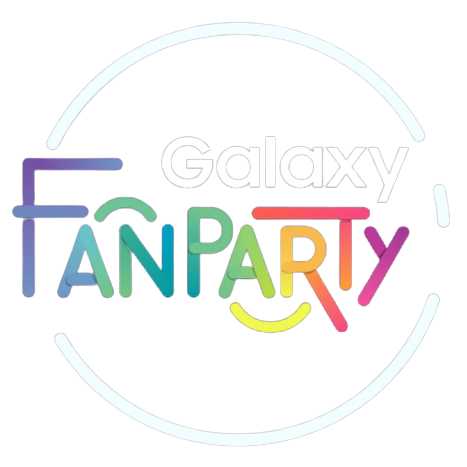
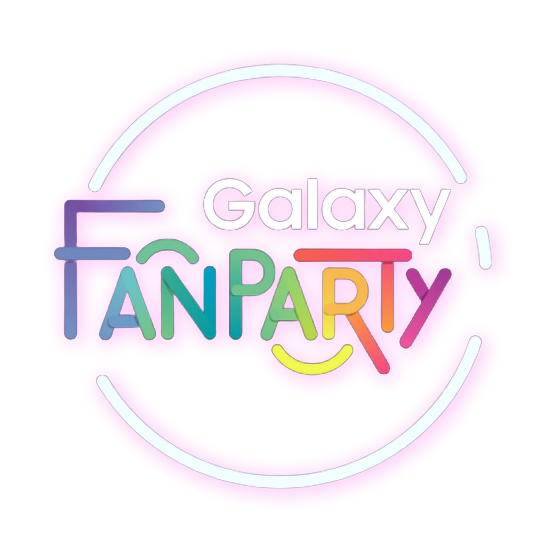
애니메이션 추가 후 1차 배포

diff --git a/src/components/UseHooks.js b/src/components/UseHooks.js
@@ -1,5 +1,5 @@
 import React from "react";
-import styled from "styled-components";
+import styled, { keyframes } from "styled-components";
 import Highlight from "react-highlight.js";
 import superhook from "../assets/superhook.mov";
 
@@ -9,6 +9,7 @@ function UseHooks() {
       <h1>토이 프로젝트 - Infinite Loading hook, Superhooks! </h1>
       <CoinContainer>
         <CodeBox>
+          <Attention>Scroll Me!</Attention>
           <HighlightCode language="javascript">
             {
               'import React, { useEffect, useState } from "react";\nimport { getMovies } from "./api";\nimport uniqBy from "lodash.uniqby";\nimport ReactDOM from "react-dom";\n\nimport "./styles.css";\n\nfunction InfiniteList() {\n\tconst [movies, setMovies] = useState([]);\n\tconst [loading, setLoading] = useState(true);\n\tconst [page, setPage] = useState(1);\n\n\tconst onScroll = () => {\n\t\tif (isBottom()) {\n\t\t\tsetPage(page + 1);\n\t\t}\n\t};\n\n\tconst isBottom = () => {\n\t\treturn (\n\t\t\tdocument.documentElement.scrollTop +\n\t\t\tdocument.documentElement.clientHeight ===\n\t\t\tdocument.documentElement.scrollHeight\n\t\t);\n\t};\n\n\tconst getFristData = async () => {\n\t\ttry {\n\t\t\tconst { data: { data: { movies } } } = await getMovies(page);\n\t\t\tsetMovies(movies);\n\t\t} catch (e) {\n\t\t\tconsole.log(e);\n\t\t} finally {\n\t\t\tsetLoading(false);\n\t\t}\n\t};\n\n\tconst getMoreData = async () => {\n\t\ttry {\n\t\t\tconst {\n\t\t\t\tdata: {\n\t\t\t\t\tdata: { movies: newMovies },\n\t\t\t\t},\n\t\t\t} = await getMovies(page);\n\t\t\tconst uniqueMovies = [...movies, ...newMovies];\n\t\t\tsetMovies(uniqBy(uniqueMovies, "id"));\n\t\t} catch (e) {\n\t\t\tonsole.log(e);\n\t\t}\n\t};\n\n\tuseEffect(() => {\n\t\tgetFristData();\n\t\twindow.addEventListener("scroll", onScroll);\n\t\treturn () => window.removeEventListener("scroll", onScroll);\n\t}, []);\n\tuseEffect(() => {\n\t\tgetMoreData();\n\t\twindow.addEventListener("scroll", onScroll);\n\t\treturn () => window.removeEventListener("scroll", onScroll);\n\t}, [page]);\n\n\treturn { loading, page, movies };\n}\n\nfunction App() {\n\tconst { loading, page, movies } = InfiniteList();\n\treturn (\n\t\t<div className="App">\n\t\t\t<h1>Infinite Movies / Page {page}</h1>\n\t\t\t{loading && <h3>Loading...</h3>}\n\t\t\t {movies.map((movie) => (\n\t\t\t\t  <h3 key={movie.id}>{movie.title}</h3>\n\t\t\t ))}\n\t\t  </div>\n\t);\n}\nconst rootElement = document.getElementById("root");\nReactDOM.render(<App />, rootElement);'
@@ -57,7 +58,7 @@ const CoinSection = styled.section`
   justify-content: space-between;
 
   & > h1 {
-    margin-bottom: 20px;
+    margin-bottom: 42px;
   }
 `;
 
@@ -73,6 +74,7 @@ const CodeBox = styled.div`
   width: 40%;
   min-height: 60vh;
   font-size: 1rem;
+  position: relative;
 
   & > p {
     margin-bottom: 20px;
@@ -115,4 +117,41 @@ const VideoBox = styled.div`
   }
 `;
 
+const jello = keyframes`
+  0% {
+    -webkit-transform: scale3d(1, 1, 1);
+            transform: scale3d(1, 1, 1);
+  }
+  30% {
+    -webkit-transform: scale3d(1.25, 0.75, 1);
+            transform: scale3d(1.25, 0.75, 1);
+  }
+  40% {
+    -webkit-transform: scale3d(0.75, 1.25, 1);
+            transform: scale3d(0.75, 1.25, 1);
+  }
+  50% {
+    -webkit-transform: scale3d(1.15, 0.85, 1);
+            transform: scale3d(1.15, 0.85, 1);
+  }
+  65% {
+    -webkit-transform: scale3d(0.95, 1.05, 1);
+            transform: scale3d(0.95, 1.05, 1);
+  }
+  75% {
+    -webkit-transform: scale3d(1.05, 0.95, 1);
+            transform: scale3d(1.05, 0.95, 1);
+  }
+  100% {
+    -webkit-transform: scale3d(1, 1, 1);
+            transform: scale3d(1, 1, 1);
+  }
+`;
+
+const Attention = styled.p`
+  position: absolute;
+  top: -32px;
+  left: 0;
+  animation: ${jello} 5s infinite both;
+`;
 export default UseHooks;

diff --git a/src/hooks/useBounce.js b/src/hooks/useBounce.js
@@ -1,0 +1,76 @@
+import { useEffect, useRef, useCallback } from "react";
+
+function useAnimation() {
+  const element = useRef();
+
+  const handleView = useCallback(([entry]) => {
+    const { current } = element;
+    if (entry.isIntersecting) {
+      current.animate(
+        [
+          {
+            offset: 0.38,
+            transform: "translateY(0)",
+            easing: "ease-out",
+          },
+          {
+            offset: 0.55,
+            transform: "translateY(-65px)",
+            easing: "ease-in",
+          },
+          {
+            offset: 0.72,
+            transform: "translateY(0)",
+            easing: "ease-out",
+          },
+          {
+            offset: 0.81,
+            transform: "translateY(-28px)",
+            easing: "ease-in",
+          },
+          {
+            offset: 0.9,
+            transform: "translateY(0)",
+            easing: "ease-out",
+          },
+          {
+            offset: 0.95,
+            transform: "translateY(-8px)",
+            easing: "ease-in",
+          },
+          {
+            offset: 1,
+            transform: "translateY(0)",
+            easing: "ease-out",
+          },
+        ],
+        { fill: "both", duration: 1100, iterations: 1 }
+      );
+    }
+  }, []);
+
+  useEffect(() => {
+    let observer;
+    const { current } = element;
+
+    if (current) {
+      observer = new IntersectionObserver(handleView, { threshold: 0.4 });
+      observer.observe(current);
+
+      return () => {
+        observer && observer.disconnect();
+      };
+    }
+  }, [handleView]);
+
+  return {
+    ref: element,
+    animate: {
+      offset: 0,
+      transform: "translateY(-500px)",
+      easing: "ease-in",
+    },
+  };
+}
+
+export default useAnimation;

diff --git a/src/components/Main.js b/src/components/Main.js
@@ -1,13 +1,18 @@
-import React from "react";
+import React, { lazy, Suspense } from "react";
 import styled, { keyframes } from "styled-components";
 
 import mainImg from "../assets/soo.jpg";
 
 function Main(props) {
+  const LazyImage = lazy(() => import("./LazyImage"));
   return (
     <MainSection id="Home">
       <MainContainer>
-        <ProfileImg src={mainImg} />
+        <Suspense fallback={<ProfileImg />}>
+          <ProfileImg>
+            <LazyImage src={mainImg} name={"DD"} />
+          </ProfileImg>
+        </Suspense>
         <ProfileSubText>
           수경스럽다 : [형용사] 업무를 수행하는 모양새가 똑부러지고 믿음직하다.
         </ProfileSubText>
@@ -74,13 +79,14 @@ const MainContainer = styled.div`
   animation: ${slideIn} 1s cubic-bezier(0.25, 0.46, 0.45, 0.94) both;
 `;
 
-const ProfileImg = styled.img`
+const ProfileImg = styled.div`
   width: 150px;
   height: 150px;
   margin-bottom: 60px;
   border-radius: 50%;
-  object-fit: cover;
+  background-color: #939393;
   box-shadow: 0 0 6px 0 rgba(0, 0, 0, 0.5);
+  overflow: hidden;
 `;
 
 const ProfileTitle = styled.div`

diff --git a/src/hooks/useBlink.js b/src/hooks/useBlink.js
@@ -1,0 +1,53 @@
+import { useEffect, useRef, useCallback } from "react";
+
+function useAnimation() {
+  const element = useRef();
+
+  const handleView = useCallback(([entry]) => {
+    const { current } = element;
+    if (entry.isIntersecting) {
+      current.animate(
+        [
+          {
+            offset: 0,
+            opacity: 1,
+          },
+          {
+            offset: 0.5,
+            opacity: 0.2,
+          },
+          {
+            offset: 1,
+            opacity: 1,
+          },
+        ],
+        { fill: "both", duration: 900, iterations: 3 }
+      );
+    }
+  }, []);
+
+  useEffect(() => {
+    let observer;
+    const { current } = element;
+
+    if (current) {
+      observer = new IntersectionObserver(handleView, { threshold: 1 });
+      observer.observe(current);
+
+      return () => {
+        observer && observer.disconnect();
+      };
+    }
+  }, [handleView]);
+
+  return {
+    ref: element,
+    animate: {
+      offset: 0,
+      transform: "translateY(-500px)",
+      easing: "ease-in",
+    },
+  };
+}
+
+export default useAnimation;

diff --git a/src/components/Galaxy.js b/src/components/Galaxy.js
@@ -1,12 +1,16 @@
 import React from "react";
 import styled from "styled-components";
 import galaxy from "../assets/galaxy.png";
+import useBlink from "../hooks/useBlink";
 
 function Xsync(props) {
+  const blink = useBlink();
+  const blinkImg = useBlink();
   return (
     <XsyncAppSection>
       <Title>
-        xSync 개별배포 앱 : <Neon>Galaxy Note 10 Fan Party </Neon>(Android)
+        xSync 개별배포 앱 : <Neon {...blink}>Galaxy Note 10 Fan Party </Neon>
+        (Android)
       </Title>
       <XsyncAppContainer>
         <Desc>
@@ -24,7 +28,7 @@ function Xsync(props) {
           <br />
           50%
         </Desc>
-        <Img src={galaxy}></Img>
+        <Img {...blinkImg} src={galaxy}></Img>
         <Desc style={{ textAlign: "left" }}>
           갤럭시 팬파티 어플리케이션은 갤럭시 팬들을 위해 열리는 행사에
           사용되었습니다. 어플리케이션을 통해 행사에 관련된 정보제공을 하며 서버

diff --git a/src/components/SKnights.js b/src/components/SKnights.js
@@ -2,8 +2,10 @@ import React from "react";
 import styled from "styled-components";
 import skMain from "../assets/sk-main.jpg";
 import skQR from "../assets/sk-qr.jpg";
+import useBounce from "../hooks/useBounce";
 
 function SKnights(props) {
+  const bounce = useBounce();
   return (
     <SKnightsSection>
       <Title>xSync 개별배포 앱 : Sk Knights (Android, iOS)</Title>
@@ -38,7 +40,7 @@ function SKnights(props) {
             제작하였습니다.
           </Desc>
         </DescBox>
-        <BackgroundImgBox>
+        <BackgroundImgBox {...bounce}>
           <BackgroundImg src={skMain}></BackgroundImg>
           <BackgroundImg src={skQR}></BackgroundImg>
         </BackgroundImgBox>
@@ -96,7 +98,6 @@ const BackgroundImgBox = styled.div`
 const BackgroundImg = styled.img`
   max-width: 40%;
   object-fit: contain;
-  box-shadow: 5px 7px 5px 1px rgba(0, 0, 0, 0.4);
 `;
 
 const DescBox = styled.div`

diff --git a/src/App.js b/src/App.js
@@ -1,30 +1,13 @@
-import React, { useState, useEffect } from "react";
 import { HashRouter as Router, Route } from "react-router-dom";
 import GlobalStyles from "./components/GlobalStyles";
-import Loader from "./components/Loader";
 import Root from "./routes/Root";
 import Android from "./routes/Android";
 import Server from "./routes/Server";
 import Vue from "./routes/Vue";
 import Reactjs from "./routes/Reactjs";
 
-const useLoader = () => {
-  const [isLoader, setIsLoader] = useState(true);
-
-  useEffect(() => {
-    setTimeout(() => setIsLoader(false), 10000);
-  }, []);
-  return isLoader;
-};
-
 function App() {
-  const isLoader = useLoader();
-  return isLoader ? (
-    <>
-      <Loader />
-      <GlobalStyles />
-    </>
-  ) : (
+  return (
     <Router>
       <Route exact path="/" component={Root} />
       <Route path="/android" component={Android} />

diff --git a/src/components/Loader.js b/src/components/Loader.js
@@ -3,7 +3,7 @@ import styled, { keyframes } from "styled-components";
 
 function Loader(props) {
   return (
-    <LoaderContainer>
+    <LoaderContainer bgColor={props.bgColor}>
       <Loader4></Loader4>
     </LoaderContainer>
   );
@@ -13,7 +13,7 @@ const LoaderContainer = styled.div`
   width: 100vw;
   height: 100vh;
   text-align: center;
-  background-color: #cca498;
+  background-color: ${(props) => props.bgColor};
   overflow: hidden;
   transition: all 0.2s ease;
 

diff --git a/src/routes/Root.js b/src/routes/Root.js
@@ -3,9 +3,16 @@ import Header from "../components/Header";
 import Main from "../components/Main";
 import More from "../components/More";
 import Contact from "../components/Contact";
+import Loader from "../components/Loader";
+import useLoader from "../hooks/useLoader";
 
 function Root(props) {
-  return (
+  const isLoader = useLoader(10000);
+  return isLoader ? (
+    <>
+      <Loader bgColor="#cca498" />
+    </>
+  ) : (
     <>
       <Header />
       <Main />

diff --git a/src/components/LazyImage.js b/src/components/LazyImage.js
@@ -1,0 +1,13 @@
+import React from "react";
+import styled from "styled-components";
+
+const LazyImage = (props) => {
+  return <Img src={props.src} alt={props.name} />;
+};
+const Img = styled.img`
+  width: 100%;
+  height: 100%;
+  object-fit: cover;
+`;
+
+export default LazyImage;

diff --git a/src/hooks/useLoader.js b/src/hooks/useLoader.js
@@ -1,0 +1,12 @@
+import { useState, useEffect } from "react";
+
+const useLoader = (time) => {
+  const [isLoader, setIsLoader] = useState(true);
+
+  useEffect(() => {
+    setTimeout(() => setIsLoader(false), time);
+  });
+  return isLoader;
+};
+
+export default useLoader;
